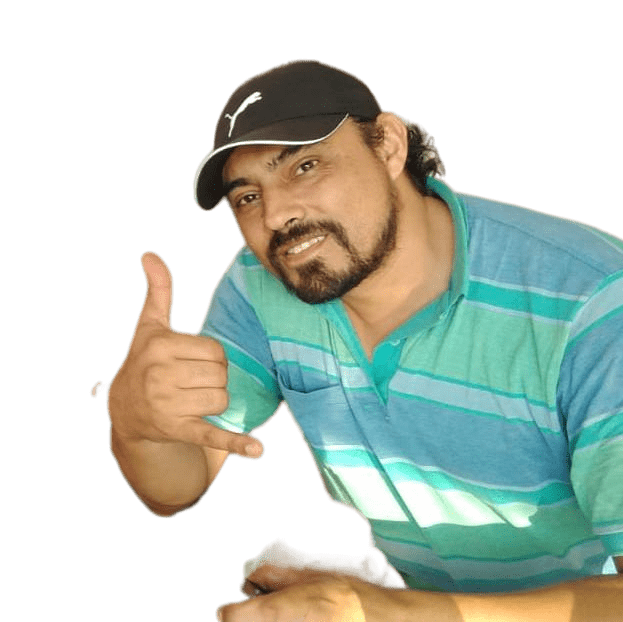
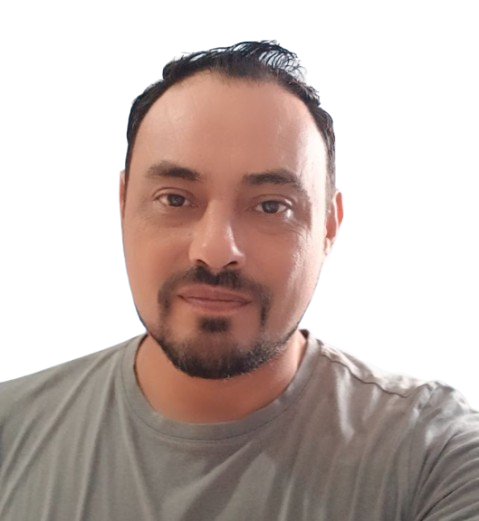
✔ Update 10-06-2026

diff --git a/src/app/contact/page.tsx b/src/app/contact/page.tsx
@@ -1,88 +1,86 @@
-import { SearchIcon, Input, Button } from '@/components'
+'use client'
+
+import React, { useState } from 'react'
+import { Input } from '@/components/Input'
+import { Button } from '@/components/Button'
+
 export default function Contact() {
+  const [form, setForm] = useState({
+    name: '',
+    email: '',
+    message: '',
+  })
+
+  const handleChange = (
+    e: React.ChangeEvent<HTMLInputElement | HTMLTextAreaElement>,
+  ) => {
+    setForm({
+      ...form,
+      [e.target.name]: e.target.value,
+    })
+  }
+
+  const handleSubmit = (e: React.FormEvent) => {
+    e.preventDefault()
+
+    console.log(form)
+  }
+
   return (
     <section className='text-gray-600 body-font relative'>
       <div className='container px-5 py-24 mx-auto'>
         <div className='flex flex-col text-center w-full mb-12'>
           <h1 className='sm:text-3xl text-2xl font-medium title-font mb-4 text-gray-900'>
-            Contact Us
+            Contacto
           </h1>
           <p className='lg:w-2/3 mx-auto leading-relaxed text-base'>
-            Whatever cardigan tote bag tumblr hexagon brooklyn asymmetrical
-            gentrify.
+            Envíame un mensaje y te respondo lo antes posible.
           </p>
         </div>
-        <div className='lg:w-1/2 md:w-2/3 mx-auto'>
+
+        <form onSubmit={handleSubmit} className='lg:w-1/2 md:w-2/3 mx-auto'>
           <div className='flex flex-wrap -m-2'>
             <div className='p-2 w-1/2'>
-              <div className='relative'>
-                <label
-                  htmlFor='name'
-                  className='leading-7 text-sm text-gray-600'>
-                  Name
-                </label>
-                <input
-                  type='text'
-                  id='name'
-                  name='name'
-                  className='w-full bg-gray-100 bg-opacity-50 rounded border border-gray-300 focus:border-indigo-500 focus:bg-white focus:ring-2 focus:ring-indigo-200 text-base outline-none text-gray-700 py-1 px-3 leading-8 transition-colors duration-200 ease-in-out'
-                />
-              </div>
+              <Input
+                label='Nombre'
+                name='name'
+                value={form.name}
+                onChange={handleChange}
+                placeholder='Tu nombre'
+              />
             </div>
+
             <div className='p-2 w-1/2'>
-              <div className='relative'>
-                <label
-                  htmlFor='email'
-                  className='leading-7 text-sm text-gray-600'>
-                  Email
-                </label>
-                <input
-                  type='email'
-                  id='email'
-                  name='email'
-                  className='w-full bg-gray-100 bg-opacity-50 rounded border border-gray-300 focus:border-indigo-500 focus:bg-white focus:ring-2 focus:ring-indigo-200 text-base outline-none text-gray-700 py-1 px-3 leading-8 transition-colors duration-200 ease-in-out'
-                />
-              </div>
+              <Input
+                label='Email'
+                name='email'
+                type='email'
+                value={form.email}
+                onChange={handleChange}
+                placeholder='[email redacted]'
+              />
             </div>
-            <div className='p-2 w-full'>
-              <div className='relative'>
-                <label
-                  htmlFor='message'
-                  className='leading-7 text-sm text-gray-600'>
-                  Message
-                </label>
-                <textarea
-                  id='message'
-                  name='message'
-                  className='w-full bg-gray-100 bg-opacity-50 rounded border border-gray-300 focus:border-indigo-500 focus:bg-white focus:ring-2 focus:ring-indigo-200 h-32 text-base outline-none text-gray-700 py-1 px-3 resize-none leading-6 transition-colors duration-200 ease-in-out'></textarea>
-              </div>
-            </div>
-            <div className='p-2 w-full'>
-              <button className='flex mx-auto text-white bg-indigo-500 border-0 py-2 px-8 focus:outline-none hover:bg-indigo-600 rounded text-lg'>
-                Button
-              </button>
-            </div>
-            <div className='p-2 w-full pt-8 mt-8 border-t border-gray-200 text-left'>
-              <Input label='Nombresdfyu' placeholder='Tu nombre' />
-            </div>
-            <Input
-              placeholder='Buscar...'
-              leftIcon={<SearchIcon className='h-4 w-4' />}
-            />
 
-            <Input
-              label='Contraseña'
-              variant='password'
-              placeholder='••••••••'
-            />
-            <br />
+            <div className='p-2 w-full'>
+              <label className='pl-3 text-sm font-medium text-gray-700'>
+                Mensaje
+              </label>
+              <textarea
+                name='message'
+                value={form.message}
+                onChange={handleChange}
+                className='w-full bg-gray-100 bg-opacity-50 rounded border border-gray-300 focus:border-black focus:bg-white focus:ring-2 focus:ring-neutral-200 text-base outline-none text-gray-700 py-2 px-3 h-32 resize-none'
+                placeholder='Escribe tu mensaje...'
+              />
+            </div>
 
-            <Button>Guardar</Button>
-            <br />
-            <br />
-            <Button variant='primary'>Cancelar</Button>
+            <div className='p-2 w-full'>
+              <Button type='submit' className='w-full'>
+                Enviar mensaje
+              </Button>
+            </div>
           </div>
-        </div>
+        </form>
       </div>
     </section>
   )

diff --git a/src/app/globals.css b/src/app/globals.css
@@ -57,6 +57,16 @@ body {
   font-family: Arial, Helvetica, sans-serif;
 }
 
+html {
+  scrollbar-width: none;
+}
+
+html::-webkit-scrollbar {
+  display: none;
+}
+
+
+
 /* 
 Porque accent y muted suelen ser más útiles que tertiary cuando el proyecto empieza a crecer. Por ejemplo:
 

diff --git a/src/components/Input.tsx b/src/components/Input.tsx
@@ -18,7 +18,9 @@ export const Input = forwardRef<HTMLInputElement, Props>(
     return (
       <div className='flex flex-col gap-1'>
         {label && (
-          <label className='text-sm font-medium text-gray-700'>{label}</label>
+          <label className='pl-3 text-sm font-medium text-gray-700'>
+            {label}
+          </label>
         )}
 
         <div className='relative flex items-center'>